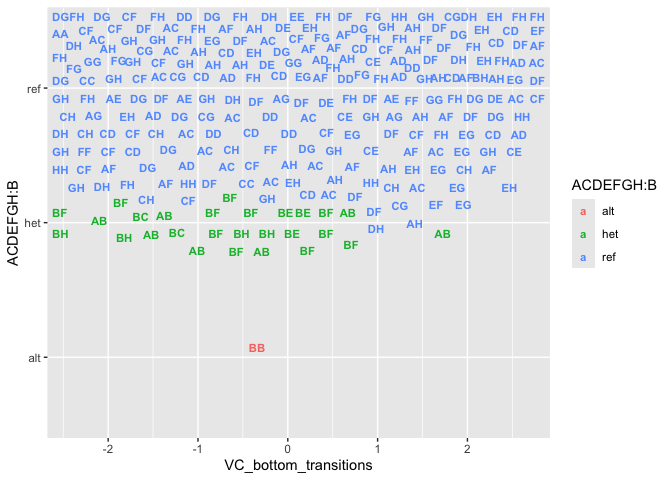
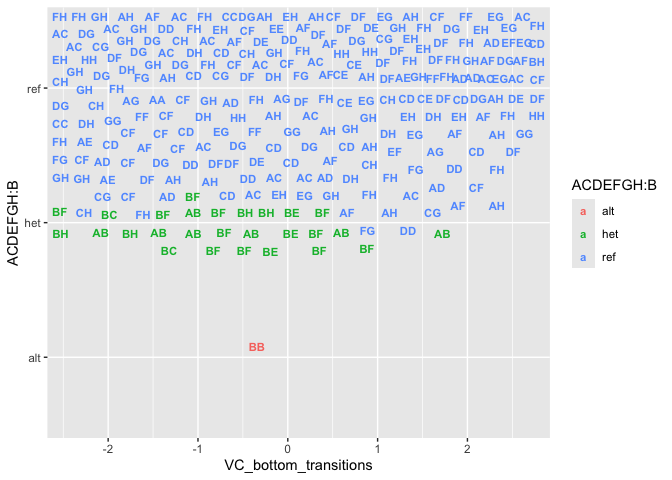
update Recla.md

diff --git a/inst/doc/Recla.md b/inst/doc/Recla.md
@@ -61,27 +61,32 @@ The following are set up in
 
     ## [1] 1
 
+    (minLOD <- 3)
+
+    ## [1] 3
+
 Read peaks in
 [peakReadServer()](https://github.com/byandell-sysgen/qtl2shiny/blob/master/R/peakReadApp.R).
 
     (peak_read_df <- qtl2shiny::read_peaks(project_df, project_class[1],
-                            subject_model = subject_model[1]))
+                            subject_model = subject_model[1])) |>
+      dplyr::filter(qtl_lod >= 5.5) |>
+      dplyr::count(phenotype_class, phenotype, addcovar)
 
-    ## # A tibble: 450 × 10
-    ##    phenotype_class phenotype          qtl_lod qtl_chr qtl_pos addcovar  intcovar
-    ##    <chr>           <chr>                <dbl> <fct>     <dbl> <chr>     <chr>   
-    ##  1 group           OF_distance_first4    5.25 1          84.1 ~sex+Coh… none    
-    ##  2 group           OF_distance_first4    5.67 2         116.  ~sex+Coh… none    
-    ##  3 group           OF_distance_first4    6.55 3          26.5 ~sex+Coh… none    
-    ##  4 group           OF_distance_first4    3.65 4          21.7 ~sex+Coh… none    
-    ##  5 group           OF_distance_first4    5.03 5         128.  ~sex+Coh… none    
-    ##  6 group           OF_distance_first4    3.96 6         139.  ~sex+Coh… none    
-    ##  7 group           OF_distance_first4    5.18 7         111.  ~sex+Coh… none    
-    ##  8 group           OF_distance_first4    4.11 8          26.8 ~sex+Coh… none    
-    ##  9 group           OF_distance_first4    3.18 9          65.2 ~sex+Coh… none    
-    ## 10 group           OF_distance_first4    5.06 10        128.  ~sex+Coh… none    
-    ## # ℹ 440 more rows
-    ## # ℹ 3 more variables: phenotype_original <chr>, subject <chr>, model <chr>
+    ## # A tibble: 24 × 4
+    ##    phenotype_class phenotype             addcovar                              n
+    ##    <chr>           <chr>                 <chr>                             <int>
+    ##  1 group           HP_latency            ~sex+Cohort+Group+Subgroup+ngen+…     3
+    ##  2 group           LD_distance_light     ~sex+Cohort+Group+Subgroup+ngen+…     3
+    ##  3 group           LD_light_pct          ~sex+Cohort+Group+Subgroup+ngen+…     3
+    ##  4 group           LD_transitions        ~sex+Cohort+Group+Subgroup+ngen+…     2
+    ##  5 group           OF_corner_pct         ~sex+Cohort+Group+Subgroup+ngen+…     3
+    ##  6 group           OF_distance           ~sex+Cohort+Group+Subgroup+ngen+…     3
+    ##  7 group           OF_distance_first4    ~sex+Cohort+Group+Subgroup+ngen+…     2
+    ##  8 group           OF_immobile_pct       ~sex+Cohort+Group+Subgroup+ngen+…     5
+    ##  9 group           OF_periphery_pct      ~sex+Cohort+Group+Subgroup+ngen+…     1
+    ## 10 group           TS_frequency_climbing ~sex+Cohort+Group+Subgroup+ngen+…     4
+    ## # ℹ 14 more rows
 
 ### Hotspots and Phenotypes
 
@@ -100,7 +105,6 @@ Create hotspots in
     ##   1   2   3   4   5   6   7   8   9  10  11  12  13  14  15  16  17  18  19   X 
     ## 537 544 469 452 438 447 428 376 388 430 394 356 363 369 303 300 270 261 196 442
 
-    minLOD <- 3
     hotspot_obj <- qtl2shiny:::hotspot(pmap_obj, peak_read_df, window_Mbp, minLOD,
                                        chrs = NULL)
     names(hotspot_obj)
